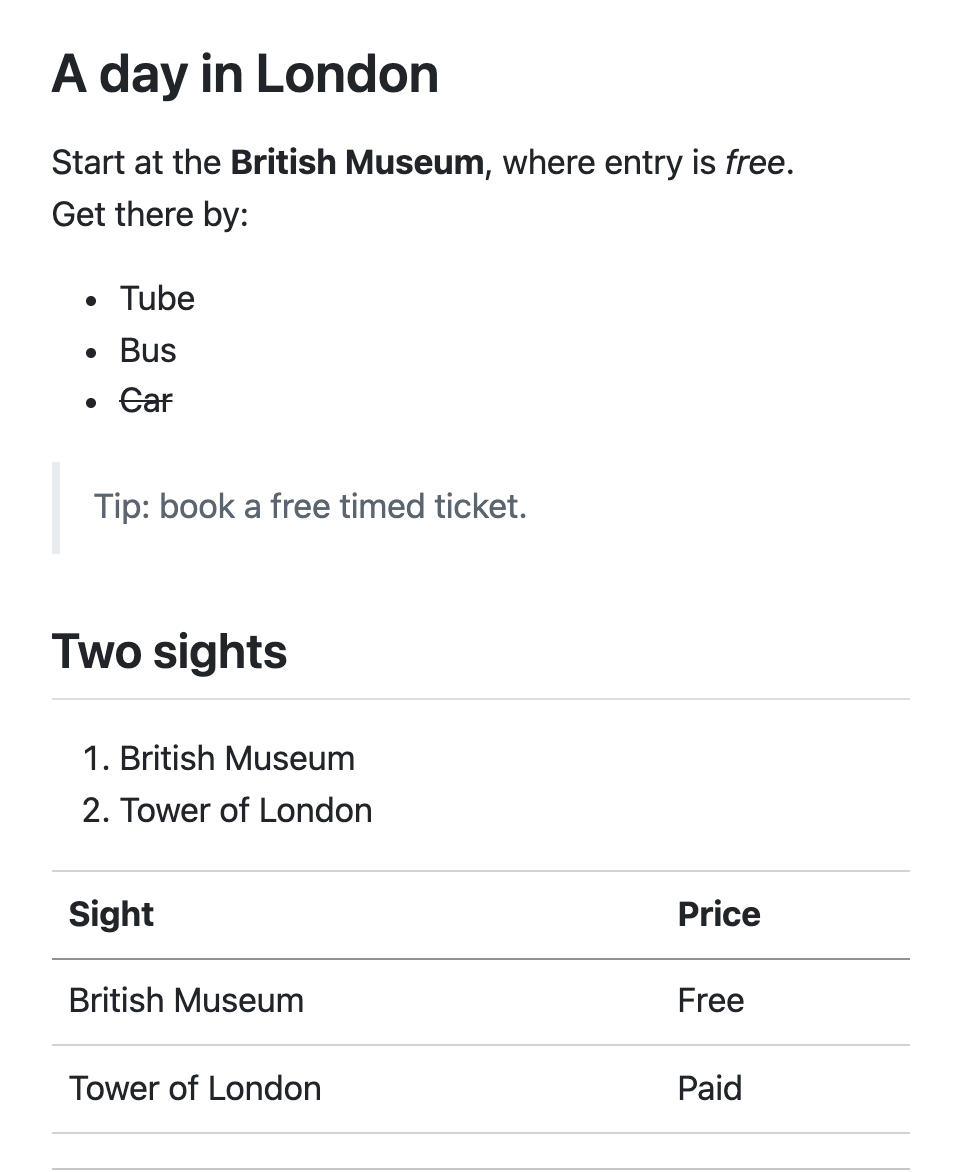
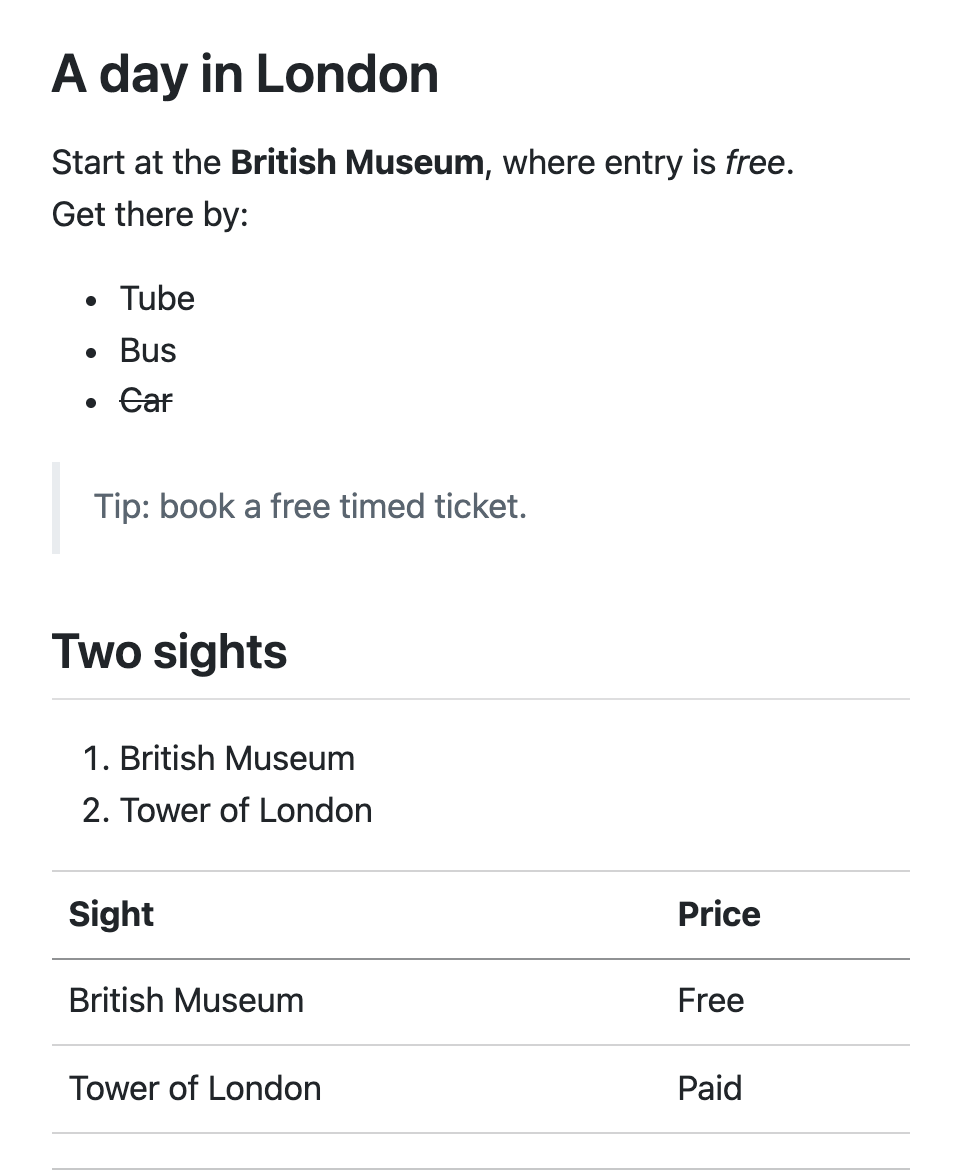
fix(book): address the review of the media package
Text sizes are measured from the lines a crop actually shows (the water post's
paragraph included), and a crop with no text stops its step; the toy pair is
cropped from text lines and block boxes, and its text is no longer dithered;
the navbar pictures hold the logo's name to the 9 px floor; the white paper's
crop stays on the page, and its small subtitle is an explicit, documented
allowance (SMALL_TEXT) checked before the picture is written; London's step
is named london, so no step name is shared by two scripts.

diff --git a/book/media/capture/eval_outputs.py b/book/media/capture/eval_outputs.py
@@ -406,6 +406,10 @@ def step_site() -> None:
         box_height = float(re.search(r'viewBox="[\d.]+ [\d.]+ [\d.]+ ([\d.]+)"', svg).group(1))
         name_size = float(re.search(r'<text[^>]*font-size="([\d.]+)"', svg).group(1))
         logo_text = got["probe"]["logo_height"] * name_size / box_height
+        if logo_text * PHONE_COLUMN / PHONE < MIN_TEXT:
+            (OUT / "eval-site-navbar-before.png").unlink(missing_ok=True)
+            sys.exit(f"eval-site-navbar: the logo's name would show at "
+                     f"{logo_text * PHONE_COLUMN / PHONE:.1f} px on a phone, under {MIN_TEXT}")
         show(got)
         print(f"  the logo's name: {logo_text * SCALE:.0f} px in the image, "
               f"{logo_text * PHONE_COLUMN / PHONE:.1f} px on a phone")
@@ -487,9 +491,9 @@ def _whitepaper(work: Path, env: dict) -> None:
         sys.exit("whitepaper.pdf: no abstract on page 1")
     fill = off[:, left + round(4 * k)] > 6
     box_top = box_bottom = round(label[1] * k)
-    while fill[box_top - 1]:
+    while box_top > 0 and fill[box_top - 1]:
         box_top -= 1
-    while fill[box_bottom + 1]:
+    while box_bottom + 1 < len(fill) and fill[box_bottom + 1]:
         box_bottom += 1
     block_bottom = top + np.flatnonzero(ink[top:box_top, left:right + 1].any(axis=1))[-1]
     pad = round(PAGE_PAD * k)
@@ -502,9 +506,14 @@ def _whitepaper(work: Path, env: dict) -> None:
         for x, baseline, size, words in text["runs"]:
             if crop[1] <= baseline * k <= crop[3]:
                 sizes.setdefault(round(size, 1), words)
+        if not sizes:
+            sys.exit(f"whitepaper.pdf: no text inside {what}")
         phone = {size: round(size * k * PHONE_COLUMN / width, 1) for size in sizes}
         if min(phone.values()) >= MIN_TEXT:
             break
+    # Below the floor only where SMALL_TEXT says why, checked before the picture is written.
+    if min(phone.values()) < MIN_TEXT and png.name not in SMALL_TEXT:
+        sys.exit(f"{png.name}: {what} has text under {MIN_TEXT} px on a phone")
     save_png(page.crop(crop), png)
     height = crop[3] - crop[1]
     print(f"figure {png.relative_to(BOOK)}: {what}, {width} x {height} px (h/w {height / width:.2f}), "
@@ -513,9 +522,15 @@ def _whitepaper(work: Path, env: dict) -> None:
         print(f"  {size:>5} pt: {size * k:.0f} px in the image, {phone[size]} px on a phone "
               f"({sizes[size][:40]!r})")
     if min(phone.values()) < MIN_TEXT:
-        # The column is 16.6 cm of an A4 page: no crop of whole lines makes its smaller type 9 px
-        # on a phone. The picture is written for the chapter's author to judge; book-pages flags it.
-        print(f"  WARNING: {what} has text under {MIN_TEXT} px on a phone even cropped to the column")
+        print(f"  allowed: text under {MIN_TEXT} px on a phone, because {SMALL_TEXT[png.name]}")
+
+
+# Pictures allowed to show text under MIN_TEXT on a phone, each with its reason (book/pagefit.yml
+# notes the same beside the figure's text size). Any other picture under the floor stops its step.
+SMALL_TEXT = {
+    "eval-whitepaper-p1.png": "it is an A4 page's title block: no crop of whole lines is narrower "
+                              "than the 16.6 cm column, and its title stays legible",
+}
 
 
 def step_update() -> None:

diff --git a/book/media/capture/toy_examples.py b/book/media/capture/toy_examples.py
@@ -41,15 +41,29 @@ ATTRACTIONS = {"data/attractions.csv": LONDON / "data" / "attractions.csv"}
 
 # Top and bottom (CSS px from the page's top) of the content above the rule, and of the rule and
 # what follows it, with the smallest text size drawn in each half.
+# Each half's extent and smallest text, from every line of text (a paragraph with bold or a
+# link in it is measured line by line) and the boxes of pictures, rules, tables and code.
 MD_PARTS = """() => {
-    const box = e => { const r = e.getBoundingClientRect(); return [r.top + scrollY, r.bottom + scrollY]; };
-    const hr = document.querySelector("main hr");
+    const main = document.querySelector("main"), hr = main && main.querySelector("hr");
     if (!hr) return null;
-    const cut = box(hr)[0];
-    const seen = [...document.querySelectorAll("main *")].filter(e => !e.children.length && e.getBoundingClientRect().height > 0);
-    const part = list => ({top: Math.min(...list.map(e => box(e)[0])), bottom: Math.max(...list.map(e => box(e)[1])),
-        text: Math.min(...list.filter(e => e.textContent.trim()).map(e => parseFloat(getComputedStyle(e).fontSize)))});
-    return {first: part(seen.filter(e => box(e)[1] <= cut)), second: part([hr, ...seen.filter(e => box(e)[0] >= cut)])};
+    const cut = hr.getBoundingClientRect().top + scrollY;
+    const items = [];  // [top, bottom, font size, or null for a box]
+    const walker = document.createTreeWalker(main, NodeFilter.SHOW_TEXT);
+    for (let n = walker.nextNode(); n; n = walker.nextNode()) {
+        if (!n.textContent.trim()) continue;
+        const range = document.createRange();
+        range.selectNodeContents(n);
+        const size = parseFloat(getComputedStyle(n.parentElement).fontSize);
+        for (const r of range.getClientRects())
+            if (r.width > 1 && r.height > 1) items.push([r.top + scrollY, r.bottom + scrollY, size]);
+    }
+    for (const e of main.querySelectorAll("img, hr, table, pre, input")) {
+        const r = e.getBoundingClientRect();
+        if (r.height > 0) items.push([r.top + scrollY, r.bottom + scrollY, null]);
+    }
+    const part = list => ({top: Math.min(...list.map(i => i[0])), bottom: Math.max(...list.map(i => i[1])),
+        text: Math.min(...list.filter(i => i[2] !== null).map(i => i[2]))});
+    return {first: part(items.filter(i => i[1] <= cut)), second: part(items.filter(i => i[0] >= cut))};
 }"""
 
 
@@ -94,7 +108,7 @@ def step_md() -> None:
                 png = OUT / f"toy-md-{n}.png"
                 page.screenshot(path=str(png), full_page=True, clip=clip)
                 if n == 1:  # text only: a palette keeps the file small; the photo stays full colour
-                    Image.open(png).convert("RGB").quantize(colors=128).save(png, optimize=True)
+                    Image.open(png).convert("RGB").quantize(colors=128, dither=Image.Dither.NONE).save(png, optimize=True)
                 h = clip["height"]
                 print("figure", png.relative_to(BOOK),
                       f"{PHONE} x {h:.0f} CSS px at {SCALE}x (h/w {h / PHONE:.2f});",

diff --git a/book/media/capture/water_outputs.py b/book/media/capture/water_outputs.py
@@ -208,15 +208,20 @@ def shoot_council(site: Path) -> None:
 
 MAX_HW = 1.25  # tallest a picture may be, as height over width
 
-# The smallest text drawn between two page heights, and the page's boxes for the two crops.
+# The smallest text with a line inside the crop (a paragraph the crop cuts through counts), or
+# null when the crop holds no text; and the page's boxes for the two crops.
 MIN_TEXT = """([top, bottom]) => {
-    let min = 1e9;
+    let min = null;
     const walker = document.createTreeWalker(document.body, NodeFilter.SHOW_TEXT);
     for (let n = walker.nextNode(); n; n = walker.nextNode()) {
         if (!n.textContent.trim()) continue;
-        const e = n.parentElement, r = e.getBoundingClientRect();
-        if (r.width === 0 || r.top + scrollY < top || r.bottom + scrollY > bottom) continue;
-        min = Math.min(min, parseFloat(getComputedStyle(e).fontSize));
+        const range = document.createRange();
+        range.selectNodeContents(n);
+        const inside = [...range.getClientRects()].some(r => r.width > 1 && r.height > 1
+            && r.top + scrollY < bottom && r.bottom + scrollY > top);
+        if (!inside) continue;
+        const size = parseFloat(getComputedStyle(n.parentElement).fontSize);
+        min = min === null ? size : Math.min(min, size);
     }
     return min;
 }"""
@@ -232,7 +237,7 @@ POST_BOX = """limit => {
     const range = document.createRange();
     range.selectNodeContents(para);
     const lines = [...range.getClientRects()].map(r => r.bottom + scrollY).filter(y => y - top <= limit);
-    return [top, Math.max(...lines)];
+    return lines.length ? [top, Math.max(...lines)] : null;
 }"""
 
 
@@ -255,6 +260,8 @@ def shoot_phone(site: Path) -> None:
                 raise SystemExit(f"{html.name}: nothing to crop to for {name}")
             top, bottom = max(span[0] - PAD, 0), span[1] + PAD
             small = page.evaluate(MIN_TEXT, [span[0], span[1]])
+            if small is None:
+                raise SystemExit(f"{name}: no text inside the crop")
             png = OUT / name
             clip = {"x": 0, "y": top, "width": PHONE, "height": bottom - top}
             Image.open(BytesIO(page.screenshot(full_page=True, clip=clip))).convert("RGB").save(png, optimize=True)

diff --git a/book/media/capture/london_outputs.py b/book/media/capture/london_outputs.py
@@ -3,7 +3,7 @@
 Renders a temporary copy of examples/london (the example itself is not touched) with its own
 locked uv environment (uv sync --frozen; no network), then makes the steps asked for:
 
-- outputs:   the first page of the flyer, the square advert and the white paper (macOS Quick
+- london:    the first page of the flyer, the square advert and the white paper (macOS Quick
              Look draws a PDF's first page, _pdf.py; the advert, a full-bleed photo, as a JPEG)
              and desktop screenshots of the dashboard and the guide.
 - guide:     london-guide-phone.png (Chapter 6's payoff): london.html at a 390 px viewport, drawn
@@ -21,7 +21,7 @@ The new pictures have new names because the Spanish edition reads media/figures 
 symlink and keeps the old ones until it is translated.
 
 Run from book/media/capture, all steps or the ones named (as arguments, or in CAPTURE_STEPS):
-    uv run --with playwright python london_outputs.py [outputs] [guide] [dashboard] [audiences] [live]
+    uv run --with playwright python london_outputs.py [london] [guide] [dashboard] [audiences] [live]
 or from book/: CAPTURE_STEPS="live" make media STEPS="capture" ONLY=london_outputs
 """
 from __future__ import annotations
@@ -210,7 +210,7 @@ def step_audiences(s: Path) -> None:
     save(out, "london-audiences.png", {"dashboard": t_boxes, "brief": t_brief})
 
 
-STEPS = {"outputs": step_outputs, "guide": step_guide, "dashboard": step_dashboard,
+STEPS = {"london": step_outputs, "guide": step_guide, "dashboard": step_dashboard,
          "audiences": step_audiences, "live": step_live}
 
 
